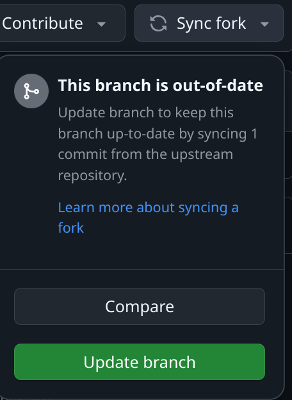
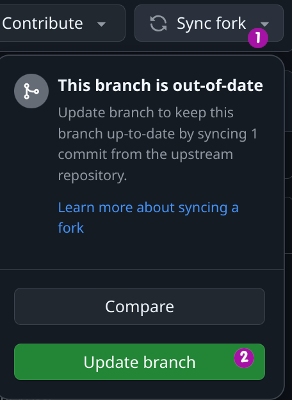
Добавил видео и нÐумерацию в изображеÐниях

Changed region(s): [[0.8322, 0.06, 0.9247, 0.12], [0.8014, 0.87, 0.8938, 0.93]]

diff --git a/docs/README.md b/docs/README.md
@@ -1,8 +1,8 @@
 # Padavan Builder
 
-##  Build Padavan firmware - easy!
+## Build Padavan firmware - easy!
 
-This project provides simple and convenient ways to build Padavan firmware for your router.  You can choose the method that suits you best:
+This project provides simple and convenient ways to build Padavan firmware for your router. You can choose the method that suits you best:
 
 * **Github Actions:** Automated build on Github servers. 
 * **Google Colab:** Build in the Google Colab cloud environment.
@@ -23,11 +23,11 @@ This project provides simple and convenient ways to build Padavan firmware for y
 
 ## Сборка прошивки Padavan - просто!
 
-Этот проект предлагает простые и удобные способы сборки прошивки Padavan для вашего роутера.  Вы можете выбрать подходящий для вас метод:
+Этот проект предлагает простые и удобные способы сборки прошивки Padavan для вашего роутера. Вы можете выбрать подходящий для вас метод:
 
-* **Github Actions:**  Автоматическая сборка на серверах Github.
-* **Google Colab:**  Сборка в облачной среде Google Colab. 
-* **Локальная сборка:**  Сборка на вашей Linux машине с помощью Docker или Podman.
+* **Github Actions:** Автоматическая сборка на серверах Github.
+* **Google Colab:** Сборка в облачной среде Google Colab. 
+* **Локальная сборка:** Сборка на вашей Linux машине с помощью Docker или Podman.
 
 ## Как начать?
 
@@ -40,3 +40,8 @@ This project provides simple and convenient ways to build Padavan firmware for y
 * [Сборка с помощью Github Actions](ru/github.md)
 * [Сборка с помощью Google Colab](ru/google.md)
 * [Сборка на локальной машине](ru/localhost.md)
+
+
+## Youtube
+| [![Youtube](https://img.youtube.com/vi/6Qlkx5JcQdg/0.jpg)](https://youtu.be/6Qlkx5JcQdg 'Github Actions') | [![Youtube](https://img.youtube.com/vi/hSdi5K50KlY/0.jpg)](https://youtu.be/hSdi5K50KlY 'Google Colab') | [![Youtube](https://img.youtube.com/vi/vdFtsq32Pxg/0.jpg)](https://youtu.be/vdFtsq32Pxg 'Local build')
+| --- | --- | ---
